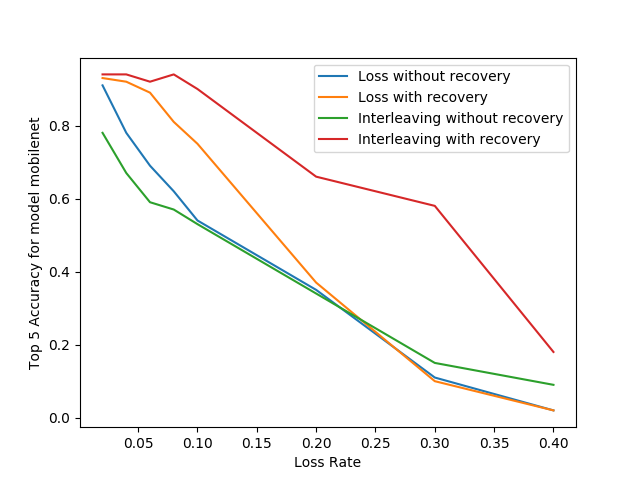
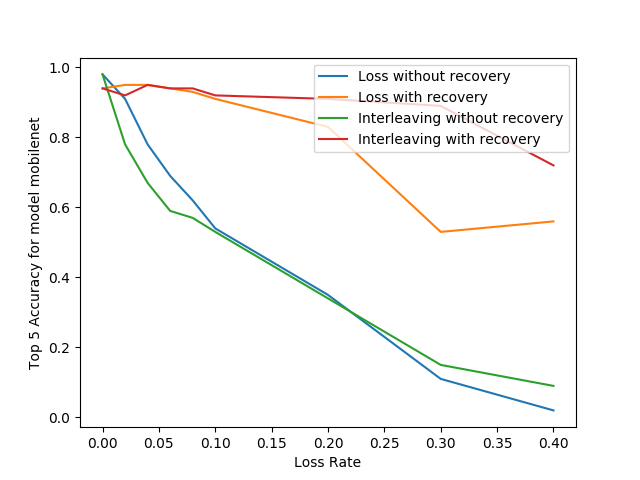
update results

diff --git a/image_to_quality.py b/image_to_quality.py
@@ -13,7 +13,8 @@ import numpy
 file_list = ["airplane", "automobile", "bird", "cat", "deer",
              "dog", "frog", "horse", "ship", "truck"]
 # loss_rate_list = [0.02, 0.04, 0.06, 0.08, 0.10, 0.2, 0.3]
-loss_rate_list = [0.02, 0.04, 0.06, 0.08, 0.10, 0.2, 0.3, 0.4]
+# loss_rate_list = [0.00, 0.02, 0.04, 0.06, 0.08, 0.10, 0.2, 0.3, 0.4]
+loss_rate_list = [0.04, 0.06, 0.08, 0.10, 0.2, 0.3, 0.4]
 quality_metric_list = ["vifp", "psnr", "ssim"]
 
 # use numpy array to get three quality

diff --git a/ml_metric.py b/ml_metric.py
@@ -187,7 +187,7 @@ if __name__ == "__main__":
     name_list = ["airplane", "automobile", "bird", "cat", "deer",
                  "dog", "frog", "horse", "ship", "truck"]
     # name_list = ["airplane"]
-    loss_rate_list = [0.02, 0.04, 0.06, 0.08, 0.10, 0.2, 0.3, 0.4]
+    loss_rate_list = [0.00, 0.02, 0.04, 0.06, 0.08, 0.10, 0.2, 0.3, 0.4]
 
     attribute_dict = pickle.load(open("gt_attr.pkl", 'rb'))
 
